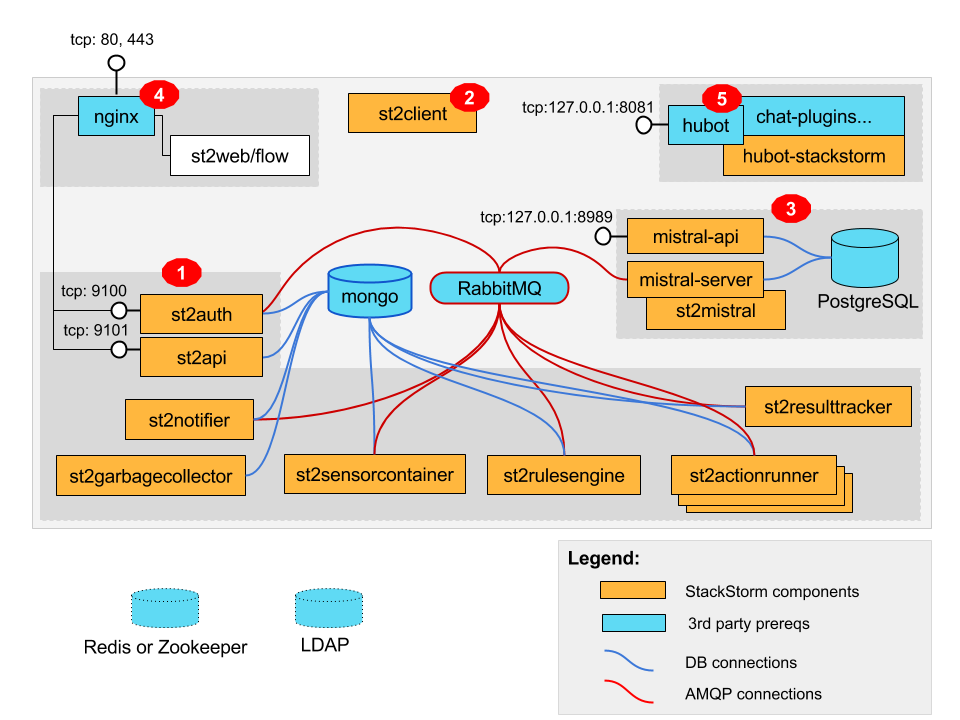
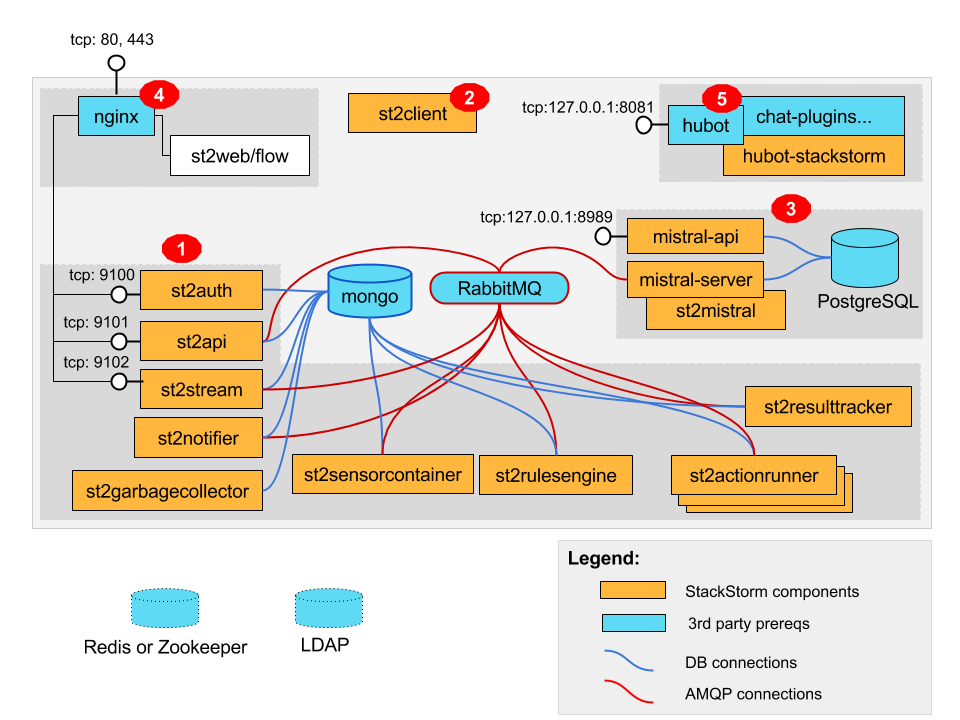
updated deployment big picture

Changed region(s): [[0.0312, 0.3056, 0.9688, 0.7333]]

diff --git a/docs/source/install/overview.rst b/docs/source/install/overview.rst
@@ -36,6 +36,8 @@ share a dedicated Python virtualenv, and configured by /etc/st2/st2.conf.
       is available; see :doc:`/authentication`. Reference deployment uses `flat file auth backend <https://github.com/StackStorm/st2-auth-backend-flat-file>`_.
     * **st2api** is REST API web service endpoint, used by CLI and WebUI. It also serves webhooks
       for webhook triggers.
+    * **st2stream** is an event stream consumption HTTP endpoint where various useful events are posted.
+      These events are consumed by WebUI and hubot i.e. ChatOps to update with results etc.
 
 
 2. st2client
